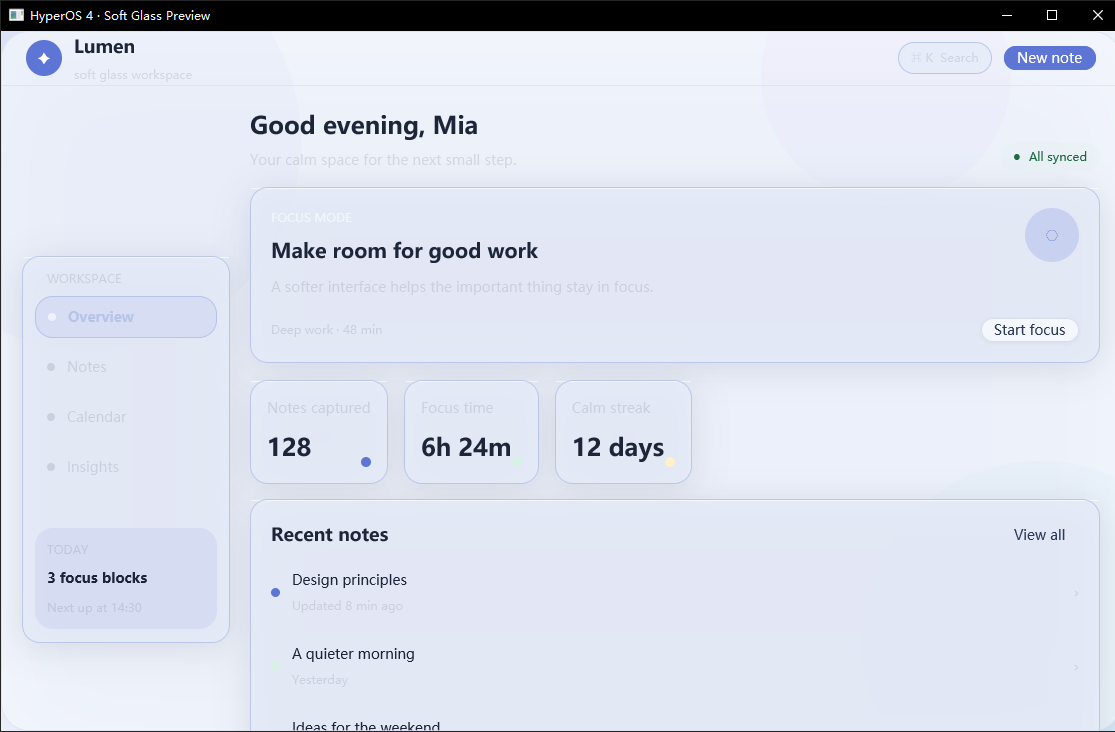
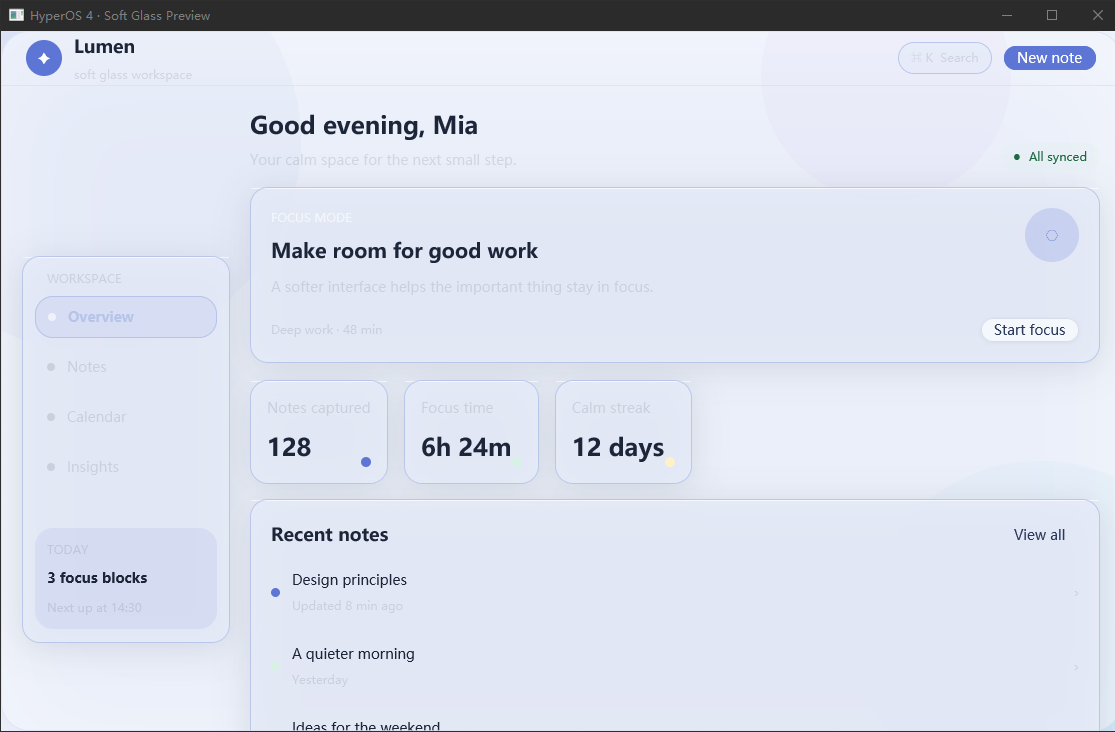
feat: enable native blurred glass backdrop

Changed region(s): [[0.0, 0.0, 1.0, 0.0601]]

diff --git a/examples/preview.rs b/examples/preview.rs
@@ -10,7 +10,8 @@ use gpui_component::{
     ActiveTheme, Root, Sizable, StyledExt,
 };
 use hyperos4_gpui_theme::{
-    glass_entrance, glass_interactive, glass_surface, GlassTokens, HyperOs4Theme,
+    glass_entrance, glass_interactive, glass_surface, soft_glass_window_background, GlassTokens,
+    HyperOs4Theme,
 };
 
 struct Preview;
@@ -114,7 +115,9 @@ impl Render for Preview {
             .w(px(1120.))
             .h(px(700.))
             .rounded(px(28.))
-            .bg(theme.background.alpha(0.74))
+            // Keep the window surface translucent so the compositor can show
+            // its blurred backdrop underneath the workspace shell.
+            .bg(theme.background.alpha(0.68))
             .border_1()
             .border_color(theme.border.alpha(0.72))
             .shadow(vec![gpui::BoxShadow {
@@ -422,7 +425,10 @@ impl Render for Preview {
             .h_flex()
             .items_center()
             .justify_center()
-            .bg(theme.background)
+            // This alpha is intentional: WindowBackgroundAppearance::Blurred
+            // supplies the native acrylic/visual-effect backdrop, while the
+            // soft color orbs remain visible through the shell and cards.
+            .bg(theme.background.alpha(0.22))
             .child(orb(theme.primary.opacity(0.13), 420., -120., -100.))
             .child(orb(theme.cyan.opacity(0.11), 360., 860., 430.))
             .child(orb(theme.magenta.opacity(0.09), 250., 760., -80.))
@@ -436,6 +442,7 @@ fn main() {
         HyperOs4Theme::install(cx, ThemeMode::Light);
         let options = WindowOptions {
             window_bounds: Some(WindowBounds::centered(size(px(1120.), px(700.)), cx)),
+            window_background: soft_glass_window_background(),
             titlebar: Some(TitlebarOptions {
                 title: Some("HyperOS 4 · Soft Glass Preview".into()),
                 ..Default::default()

diff --git a/src/lib.rs b/src/lib.rs
@@ -1,11 +1,13 @@
 //! HyperOS 4 inspired soft-light glass theme for GPUI.
 //!
 //! The theme is intentionally built on top of GPUI Component's semantic theme
-//! tokens. Surfaces use translucent fills, a cool specular edge, and restrained
-//! shadows to evoke soft glass without relying on platform-specific blur APIs.
+//! tokens. Surfaces use translucent fills, a cool specular edge, restrained
+//! shadows, and the native blurred window backdrop where the platform supports
+//! it. Per-surface blur is not exposed by GPUI yet, so translucent tinting is
+//! retained as a portable fallback.
 //!
 //! ```no_run
-//! use gpui::{App, Application};
+//! use gpui::{App, Application, WindowBackgroundAppearance, WindowOptions};
 //! use gpui_component::theme::ThemeMode;
 //! use hyperos4_gpui_theme::HyperOs4Theme;
 //!
@@ -13,6 +15,10 @@
 //! app.run(|cx: &mut App| {
 //!     gpui_component::init(cx);
 //!     HyperOs4Theme::install(cx, ThemeMode::Light);
+//!     let _options = WindowOptions {
+//!         window_background: WindowBackgroundAppearance::Blurred,
+//!         ..Default::default()
+//!     };
 //! });
 //! ```
 
@@ -20,6 +26,8 @@ mod glass;
 mod motion;
 mod theme;
 
-pub use glass::{glass_entrance, glass_interactive, glass_surface, GlassTokens};
+pub use glass::{
+    glass_entrance, glass_interactive, glass_surface, soft_glass_window_background, GlassTokens,
+};
 pub use motion::{ease_in_out_cubic, ease_out_back, ease_out_quint, interpolate_hsla};
 pub use theme::HyperOs4Theme;

diff --git a/src/glass.rs b/src/glass.rs
@@ -3,7 +3,7 @@ use std::time::Duration;
 use gpui::InteractiveElement;
 use gpui::{
     div, point, px, Animation, AnimationElement, AnimationExt, BoxShadow, Div, ElementId, Hsla,
-    IntoElement, ParentElement, Pixels, Styled,
+    IntoElement, ParentElement, Pixels, Styled, WindowBackgroundAppearance,
 };
 use gpui_component::theme::Theme;
 
@@ -76,6 +76,17 @@ impl GlassTokens {
     }
 }
 
+/// Select the native window backdrop used by HyperOS 4 glass previews.
+///
+/// GPUI maps [`WindowBackgroundAppearance::Blurred`] to the platform's
+/// compositor (acrylic on Windows, a visual-effect view on macOS, and the
+/// available Wayland blur protocol). Platforms that do not expose a backdrop
+/// blur keep the translucent tint and highlight treatment as a graceful
+/// fallback.
+pub const fn soft_glass_window_background() -> WindowBackgroundAppearance {
+    WindowBackgroundAppearance::Blurred
+}
+
 /// Build a soft-light glass surface around any GPUI element.
 pub fn glass_surface(child: impl IntoElement, tokens: GlassTokens) -> Div {
     let highlight = div()
@@ -138,5 +149,13 @@ mod tests {
         assert!(tokens.radius > px(0.));
         assert_eq!(tokens.shadows(false).len(), 1);
         assert_eq!(tokens.shadows(true).len(), 1);
+    }
+
+    #[test]
+    fn window_background_uses_native_blur() {
+        assert_eq!(
+            soft_glass_window_background(),
+            WindowBackgroundAppearance::Blurred
+        );
     }
 }

diff --git a/README.md b/README.md
@@ -13,7 +13,7 @@
 - `ease_in_out_cubic`、`ease_out_back`、`ease_out_quint` 和 `interpolate_hsla` 可用于应用层状态动画
 - `examples/preview.rs` 提供可运行的主题预览
 
-GPUI 0.2.2 当前没有跨平台 backdrop blur 绘制 API，因此“柔光玻璃”使用半透明 tint + 高光 + 阴影来保留背景层次；未来接入渲染器模糊能力时，`GlassTokens` 可作为稳定的语义入口。
+GPUI 0.2.2 提供了 `WindowBackgroundAppearance::Blurred`，`soft_glass_window_background()` 已将它封装到主题 API 中：Windows 使用 Acrylic，macOS 使用 Visual Effect，支持的 Wayland 合成器使用原生 blur。GPUI 暂时没有逐组件的 backdrop blur 绘制 API，因此组件表面仍以半透明 tint + 高光 + 阴影作为跨平台 fallback。
 
 ## 使用
 
@@ -22,9 +22,11 @@ hyperos4-gpui-theme = { git = "https://github.com/YMRwithNoworry/hyperos4-gpui-t
 ```
 
 ```rust
-use gpui::{div, App, Window};
+use gpui::{div, App, Window, WindowOptions};
 use gpui_component::theme::ThemeMode;
-use hyperos4_gpui_theme::{glass_interactive, GlassTokens, HyperOs4Theme};
+use hyperos4_gpui_theme::{
+    glass_interactive, soft_glass_window_background, GlassTokens, HyperOs4Theme,
+};
 
 fn setup(cx: &mut App) {
     gpui_component::init(cx);
@@ -34,6 +36,13 @@ fn setup(cx: &mut App) {
 fn panel(window: &Window, cx: &App) -> impl gpui::IntoElement {
     let glass = GlassTokens::from_theme(cx.theme());
     glass_interactive(div().child("柔光玻璃"), glass)
+}
+
+fn window_options() -> WindowOptions {
+    WindowOptions {
+        window_background: soft_glass_window_background(),
+        ..Default::default()
+    }
 }
 ```
 
